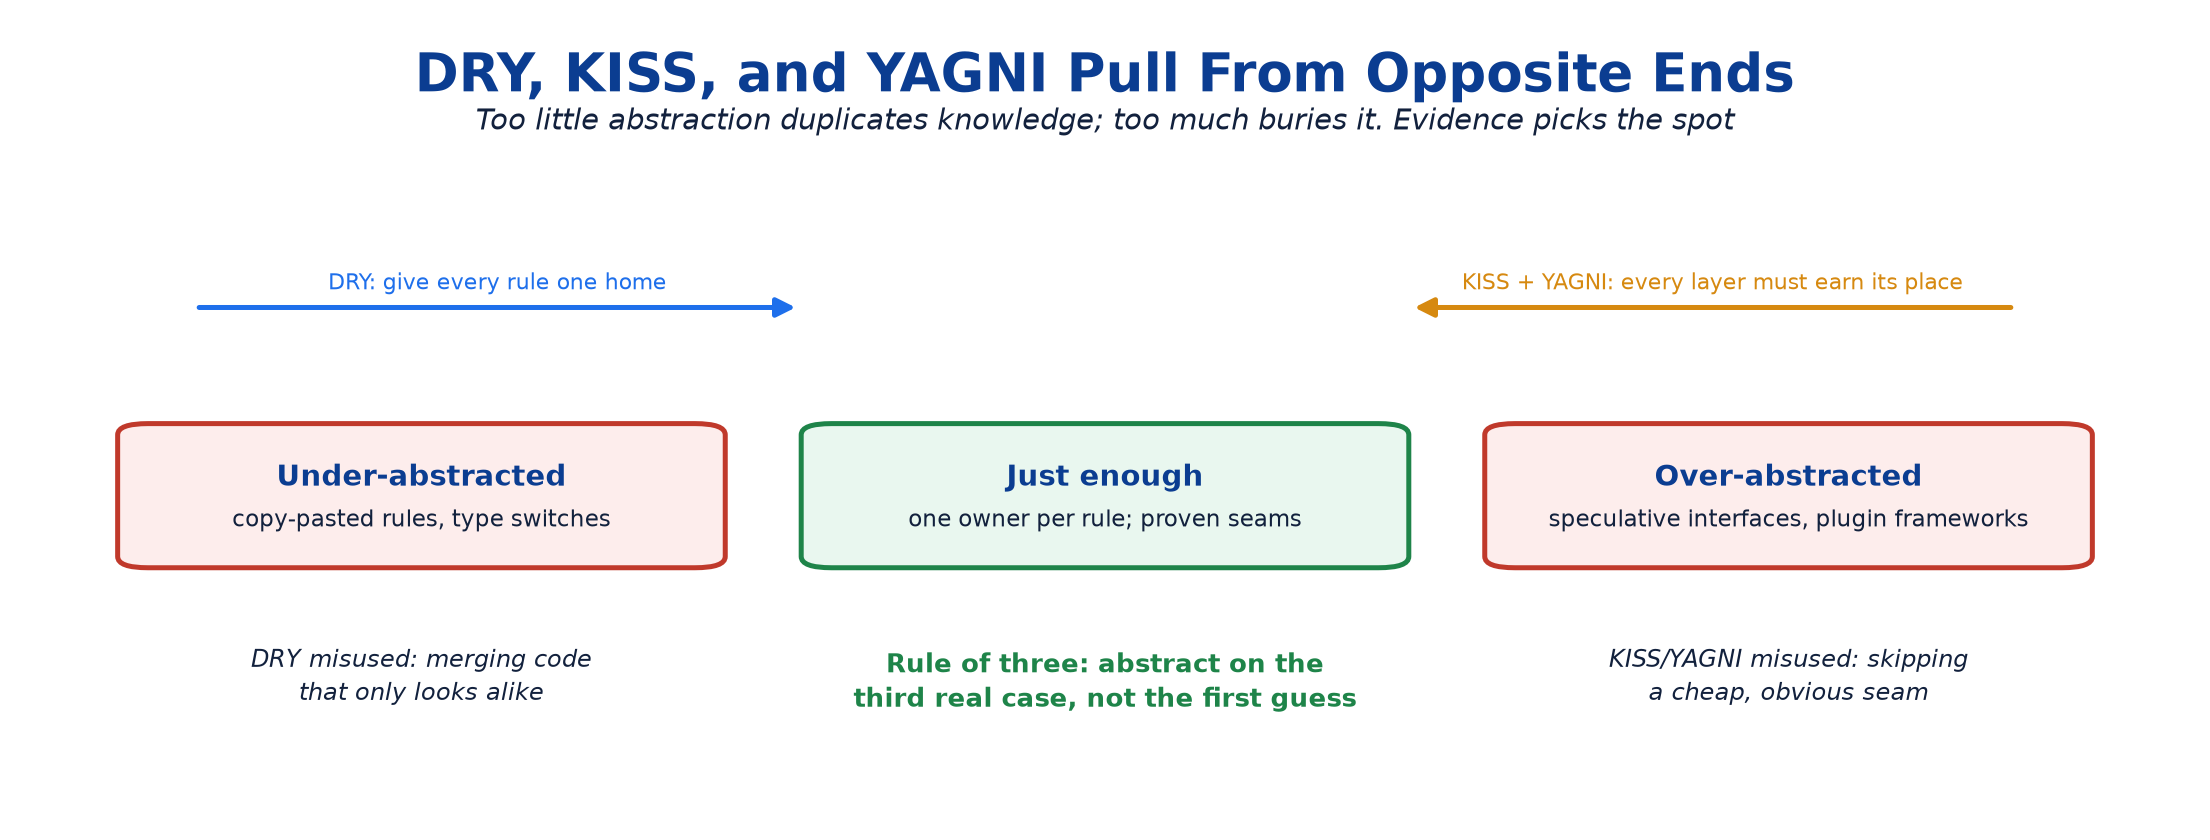
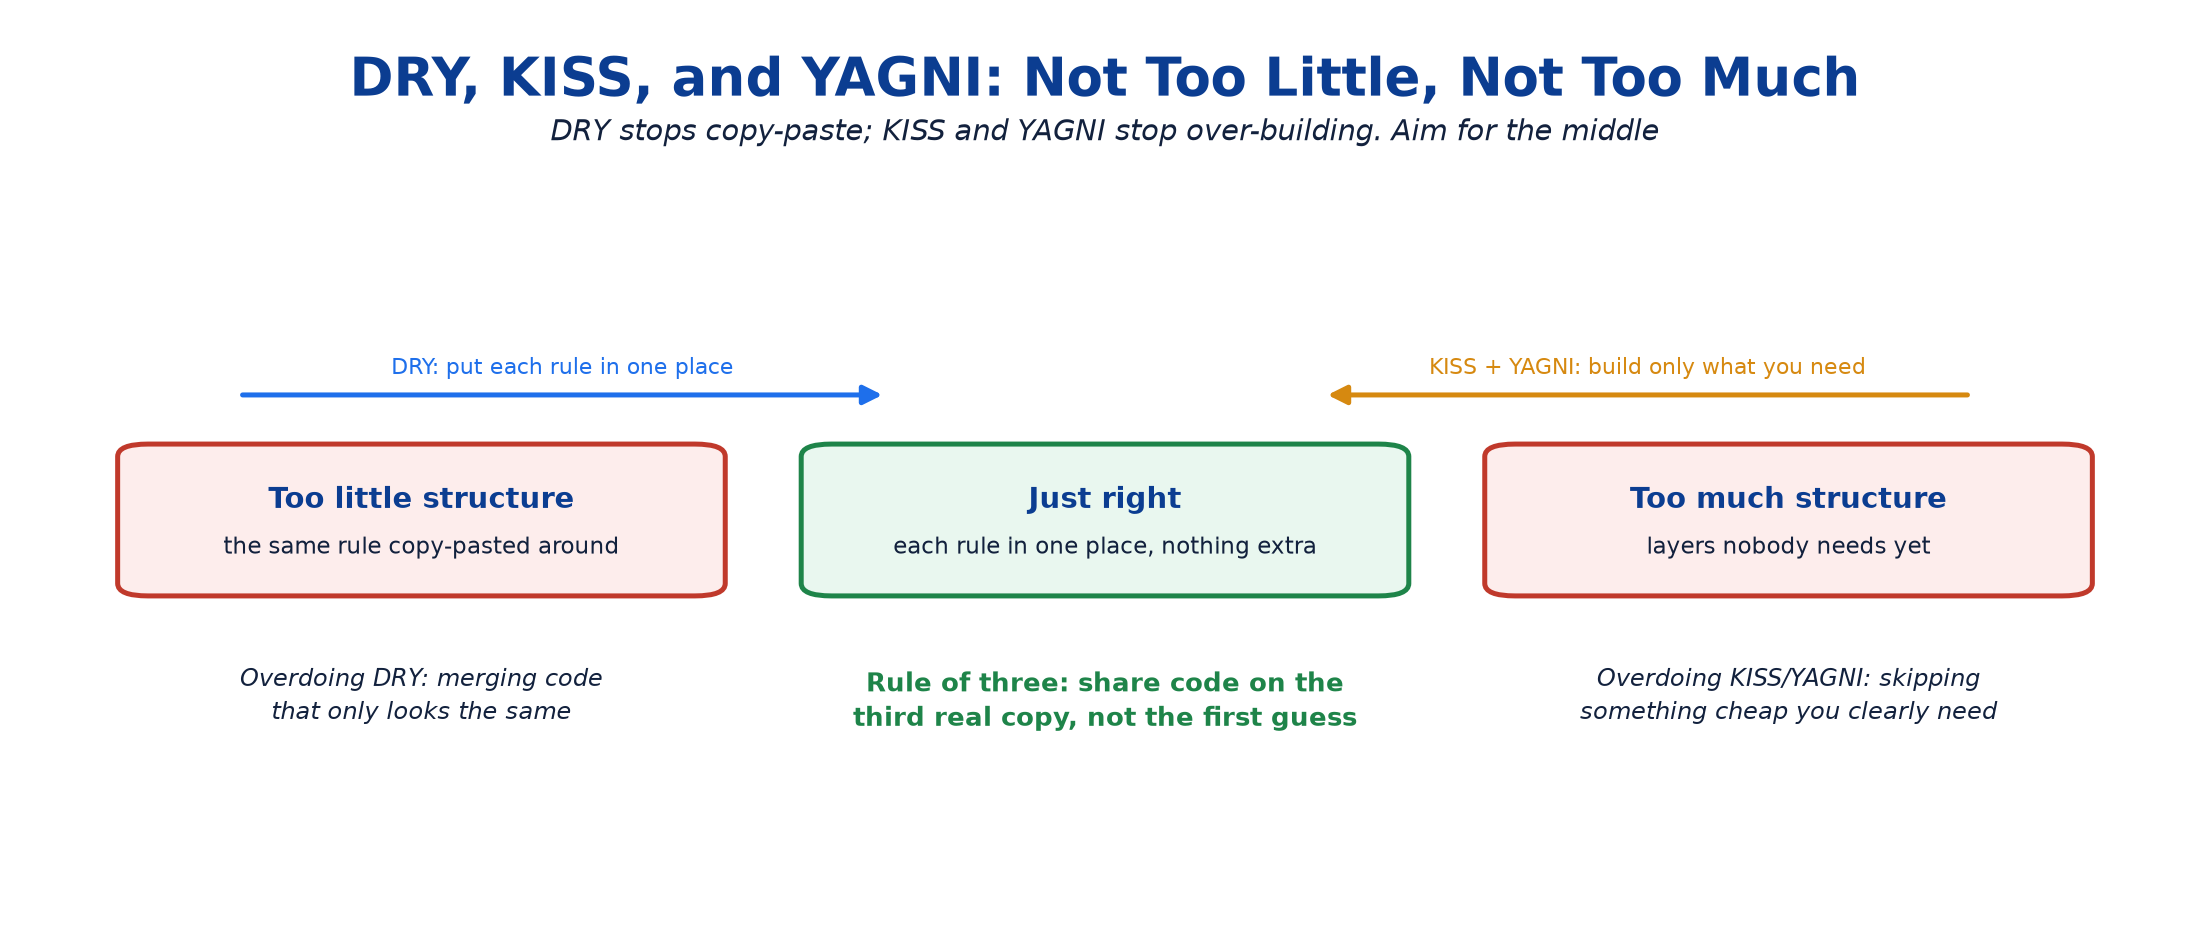
Basics 2: drop Level 1-7 labels; simplify DRY/KISS/YAGNI and its diagram
Removes the Level N ladder from headings, the problem table, and every
cross-reference; each reference now names the section it means.

DRY/KISS/YAGNI: rule-in-plain-words -> notification example -> trap, same
pattern as SOLID. Diagram drops abstraction/seams/speculative jargon for
too little / just right / too much structure, with arrows sitting directly
over the boxes they point at.

diff --git a/system-design/_support/tools/plot_topic_02_figures.py b/system-design/_support/tools/plot_topic_02_figures.py
@@ -210,23 +210,23 @@ def composition_vs_inheritance() -> plt.Figure:
 
 
 def clean_code_guardrails() -> plt.Figure:
-    fig, ax = canvas(14, 5.2)
-    heading(ax, "DRY, KISS, and YAGNI Pull From Opposite Ends",
-            "Too little abstraction duplicates knowledge; too much buries it. Evidence picks the spot")
+    fig, ax = canvas(14, 5.8)
+    heading(ax, "DRY, KISS, and YAGNI: Not Too Little, Not Too Much",
+            "DRY stops copy-paste; KISS and YAGNI stop over-building. Aim for the middle")
     zones = [
-        (5, "Under-abstracted", "copy-pasted rules, type switches", RED, RED_FACE),
-        (36.5, "Just enough", "one owner per rule; proven seams", GREEN, GREEN_FACE),
-        (68, "Over-abstracted", "speculative interfaces, plugin frameworks", RED, RED_FACE),
+        (5, "Too little structure", "the same rule copy-pasted around", RED, RED_FACE),
+        (36.5, "Just right", "each rule in one place, nothing extra", GREEN, GREEN_FACE),
+        (68, "Too much structure", "layers nobody needs yet", RED, RED_FACE),
     ]
     for x, title, subtitle, edge, face in zones:
-        box(ax, x, 32, 27, 17, title, subtitle, face=face, edge=edge)
-    arrow(ax, (8, 64), (36, 64), color=BLUE, label="DRY: give every rule one home")
-    arrow(ax, (92, 64), (64, 64), color=AMBER, label="KISS + YAGNI: every layer must earn its place")
-    for x, note in [(18.5, "DRY misused: merging code\nthat only looks alike"),
-                    (81.5, "KISS/YAGNI misused: skipping\na cheap, obvious seam")]:
-        ax.text(x, 22, note, ha="center", va="top", fontsize=8.5, color=INK,
+        box(ax, x, 36, 27, 16, title, subtitle, face=face, edge=edge)
+    arrow(ax, (10, 58), (40, 58), color=BLUE, label="DRY: put each rule in one place")
+    arrow(ax, (90, 58), (60, 58), color=AMBER, label="KISS + YAGNI: build only what you need")
+    for x, note in [(18.5, "Overdoing DRY: merging code\nthat only looks the same"),
+                    (81.5, "Overdoing KISS/YAGNI: skipping\nsomething cheap you clearly need")]:
+        ax.text(x, 28, note, ha="center", va="top", fontsize=8.5, color=INK,
                 style="italic", linespacing=1.4)
-    ax.text(50, 22, "Rule of three: abstract on the\nthird real case, not the first guess",
+    ax.text(50, 28, "Rule of three: share code on the\nthird real copy, not the first guess",
             ha="center", va="top", fontsize=9.5, fontweight="bold", color=GREEN, linespacing=1.4)
     return fig
 

diff --git a/system-design/basics/02_LLD_Object_Oriented_Principles_And_Clean_Code.md b/system-design/basics/02_LLD_Object_Oriented_Principles_And_Clean_Code.md
@@ -57,15 +57,15 @@ class NotificationManager {
 }
 ```
 
-This class has five separate problems, and each level below fixes one of them:
+This class has five separate problems, and the sections below fix them one at a time:
 
 | Problem in `NotificationManager` | Fixed in |
 |---|---|
-| Any caller can create a notification with an empty message or an invalid channel. | Level 1: Encapsulation |
-| The class is full of email protocol steps that have nothing to do with notifying a user. | Level 2: Abstraction |
-| Adding a new channel means editing the `switch`, and every other `switch` on the channel. | Level 3: Polymorphism |
-| Adding retries tempts you into a tangle of subclasses. | Level 4: Composition over inheritance |
-| The class knows about SMTP, Twilio, Firebase, and user preferences all at once. | Level 5: Coupling and cohesion |
+| Any caller can create a notification with an empty message or an invalid channel. | Encapsulation (section 2) |
+| The class is full of email protocol steps that have nothing to do with notifying a user. | Abstraction (section 2) |
+| Adding a new channel means editing the `switch`, and every other `switch` on the channel. | Polymorphism (section 2) |
+| Adding retries tempts you into a tangle of subclasses. | Composition over inheritance (section 2) |
+| The class knows about SMTP, Twilio, Firebase, and user preferences all at once. | Coupling and cohesion (section 3) |
 
 ---
 
@@ -75,7 +75,7 @@ This class has five separate problems, and each level below fixes one of them:
 
 The four pillars build on each other. Encapsulation protects data, abstraction hides details behind a simple interface, polymorphism lets many implementations share one interface, and composition assembles small objects into bigger behavior. Together they lead to the goal shown at the bottom of the diagram: when requirements change, only a small number of classes need to change.
 
-### Level 1: Encapsulation, keeping the rules with the data
+### Encapsulation: keeping the rules with the data
 
 **Encapsulation** means an object keeps its data private and only exposes methods that keep that data valid. The rules about the data (its invariants) are enforced in exactly one place: inside the object that owns the data.
 
@@ -116,7 +116,7 @@ Now an invalid notification simply cannot exist. Any method that receives a `Not
 ??? success "Answer"
     The rule "the total always equals the sum of the item prices" lives in the callers. If any caller adds an item and forgets to update the total, the cart becomes wrong, and nothing detects it. The fix is to make the fields private and give the cart an `addItem(Item item)` method that updates both together, or, even simpler, to compute `total()` from the items whenever it is asked for.
 
-### Level 2: Abstraction, hiding the how
+### Abstraction: hiding the how
 
 **Abstraction** means callers depend on *what* an object does, not *how* it does it. The caller states its intent, and the details stay hidden behind a simple interface.
 
@@ -145,7 +145,7 @@ Notice that `send` returns a `SendResult` instead of returning nothing. A good a
 ??? success "Answer"
     Hide the steps behind an intent-based method such as `reportExporter.export(report, destination)`. The caller only expresses what it wants, and the file-handling steps live inside one exporter class. If the format later changes from CSV to Excel, only the exporter changes, and none of its callers do.
 
-### Level 3: Polymorphism, replacing the type switch
+### Polymorphism: replacing the type switch
 
 **Polymorphism** means the same method call can behave differently depending on which object receives it. It lets you replace `if` and `switch` statements that check an object's type with a single call through an interface.
 
@@ -195,7 +195,7 @@ Adding WhatsApp is now a new `WhatsAppSender` class plus one extra entry in the 
 ??? success "Answer"
     Make `Shape` an interface with an `area()` method, and let `Circle` and `Square` each implement it. The caller then simply calls `shape.area()`. A new shape, such as a triangle, becomes a new class, and the existing code does not change.
 
-### Level 4: Composition over inheritance
+### Composition over inheritance
 
 There are two ways for one class to reuse another's code:
 
@@ -247,7 +247,7 @@ If `Penguin extends Bird` and overrides `fly()` to throw an exception, any code 
 
 ---
 
-## 3. Coupling and cohesion (Level 5)
+## 3. Coupling and cohesion
 
 ![Quadrant of coupling against cohesion with the modular quadrant as the goal](assets/topic-02/coupling_cohesion.png)
 
@@ -295,7 +295,7 @@ This habit is called **"tell, don't ask."** A related rule, the *Law of Demeter*
 
 ---
 
-## 4. SOLID, one letter at a time (Level 6)
+## 4. SOLID, one letter at a time
 
 ![Five SOLID rules, each with its warning sign](assets/topic-02/solid_principles.png)
 
@@ -320,9 +320,9 @@ final class NotificationService { /* coordinates the others, shown in section 6 
 
 **Rule: add new behavior by adding new code, not by editing code that already works.**
 
-Level 3 already did this for channels. Adding WhatsApp means writing a new `WhatsAppSender` class and registering it with the other senders. `NotificationService` itself is not edited.
+Polymorphism (section 2) already did this for channels. Adding WhatsApp means writing a new `WhatsAppSender` class and registering it with the other senders. `NotificationService` itself is not edited.
 
-**Trap:** only build this flexibility where change is actually expected. New channels really have been requested, so it is worth it here. Building it "just in case" breaks YAGNI (Level 7).
+**Trap:** only build this flexibility where change is actually expected. New channels really have been requested, so it is worth it here. Building it "just in case" breaks YAGNI (section 5).
 
 ### L: Liskov Substitution
 
@@ -397,29 +397,29 @@ Look at the arrows in the picture. Before, the business code points *down* at th
 
 ---
 
-## 5. DRY, KISS, and YAGNI (Level 7)
+## 5. DRY, KISS, and YAGNI
 
-![DRY, KISS, and YAGNI pulling from opposite ends of the abstraction spectrum](assets/topic-02/clean_code_guardrails.png)
+![DRY, KISS, and YAGNI: too little structure, just right, too much structure](assets/topic-02/clean_code_guardrails.png)
 
-SOLID tells you *where* responsibilities should go. These three guidelines tell you *how much* abstraction to build. They pull in opposite directions, and good design sits in the middle.
+SOLID says *where* code should go. These three rules say *how much* to build. DRY warns against too little structure, such as the same rule copy-pasted in several places. KISS and YAGNI warn against too much, such as layers nobody needs. Good design sits in the middle.
 
 ### DRY: Don't Repeat Yourself
 
-**Every piece of knowledge should have one owner.** If the same business rule is written in several places, the copies eventually drift apart.
+**Rule: each business rule should live in exactly one place.** If the same rule is written in several places, the copies eventually drift apart.
 
-Suppose each sender builds the message text itself, so the wording "Your order #123 has shipped" exists in three classes. When marketing changes the wording, someone updates two of the three, and SMS users get the old text. Moving the wording into the single `TemplateRenderer` gives that knowledge one home.
+Suppose each sender builds its own message text, so "Your order #123 has shipped" is written in three classes. Marketing changes the wording, someone updates two of the three, and SMS users still get the old text. Moving the wording into `TemplateRenderer` gives it one home.
 
-**Trap:** DRY is about duplicated *knowledge*, not duplicated *text*. Two methods that look identical but belong to different owners, such as signup validation and identity verification, should stay separate. If you merge them, the first requirement that applies to only one of them adds a boolean flag, and then another. As Sandi Metz put it, "duplication is far cheaper than the wrong abstraction". A useful tie-breaker is the **rule of three**: tolerate a second copy, and extract a shared abstraction when a third copy appears.
+**Trap:** DRY is about the same *rule*, not code that merely *looks* the same. Two identical-looking methods with different owners, such as signup validation and identity verification, should stay separate. Merge them, and every difference that appears later adds another flag to the shared method. A useful tie-breaker is the **rule of three**: allow a second copy, and share the code when a third real copy appears.
 
 ### KISS: Keep It Simple
 
-**Every layer of complexity must buy a capability you actually need.** With only three channels, it can be tempting to build a plugin framework that discovers senders automatically and sorts them by priority. The one-line map from Level 3 already does the job, and anyone can read it in seconds.
+**Rule: choose the simplest design that does the job.** With only three channels, it can be tempting to build a plugin framework that finds senders automatically and sorts them by priority. The one-line map from the polymorphism step in section 2 already does the job, and anyone can read it in seconds.
 
-**Trap:** KISS removes complexity that the design added by accident. It does not mean ignoring complexity that is genuinely part of the problem, such as tax rules or retry behavior. Flattening real rules into something that looks simple but handles edge cases wrongly is a bug.
+**Trap:** simple does not mean ignoring complexity that is really part of the problem, such as tax rules or retry behavior. Code that looks simple but handles real cases wrongly is just a bug.
 
 ### YAGNI: You Aren't Gonna Need It
 
-**Do not build for a future that nobody has asked for.** The `Sender` interface is worth having today: it costs one small file, and it lets us test the service with a fake. Writing `TelegramSender` and `SignalSender` stubs "just in case" is not worth it, because you would be coding against guessed requirements that will probably be wrong when the real need arrives. Keep the extension point, but do not build the extensions early.
+**Rule: do not build features or flexibility that nobody has asked for yet.** The `Sender` interface is worth having today: it is one small file, and it lets us test the service with a fake. Writing `TelegramSender` and `SignalSender` "just in case" is not, because those guesses will probably be wrong by the time a real need arrives.
 
 !!! question "Practice"
     The signup flow and the identity-verification flow each contain an identical 10-line method that validates a user's name and date of birth. A teammate wants to merge them into one shared method. What should you consider?
@@ -431,7 +431,7 @@ Suppose each sender builds the message text itself, so the wording "Your order #
 
 ## 6. Putting it together: the notification service
 
-After all seven levels, the messy `NotificationManager` has become a set of small classes, each with one clear job:
+After all of these steps, the messy `NotificationManager` has become a set of small classes, each with one clear job:
 
 ![Notification service class diagram with policy above and channel adapters below a boundary](assets/topic-02/notification_architecture.png)
 
@@ -480,7 +480,7 @@ The real test of a design is how it handles change. Here is what each likely cha
 The last row is important. A daily summary changes the *workflow*, and the coordinating class is supposed to change for workflow reasons. No design absorbs every possible change, and saying so honestly is a stronger answer than claiming the design is open to anything.
 
 ??? info "Go deeper (optional): proving substitution with contract tests"
-    Level 6 said every `Sender` must classify failures the same way. A *contract test* turns that promise into something the build checks. You write the tests once, against the interface, and every implementation's test class inherits them:
+    The Liskov rule in section 4 said every `Sender` must classify failures the same way. A *contract test* turns that promise into something the build checks. You write the tests once, against the interface, and every implementation's test class inherits them:
 
     ```java
     abstract class SenderContractTest {
